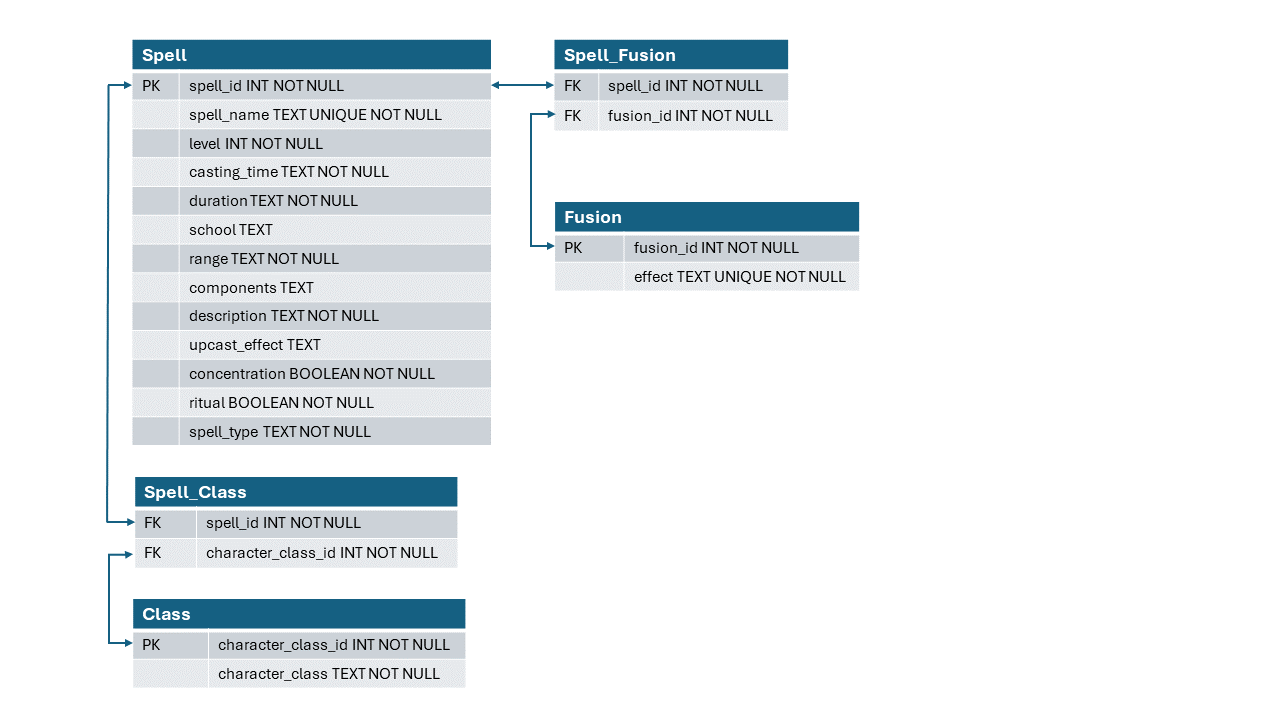
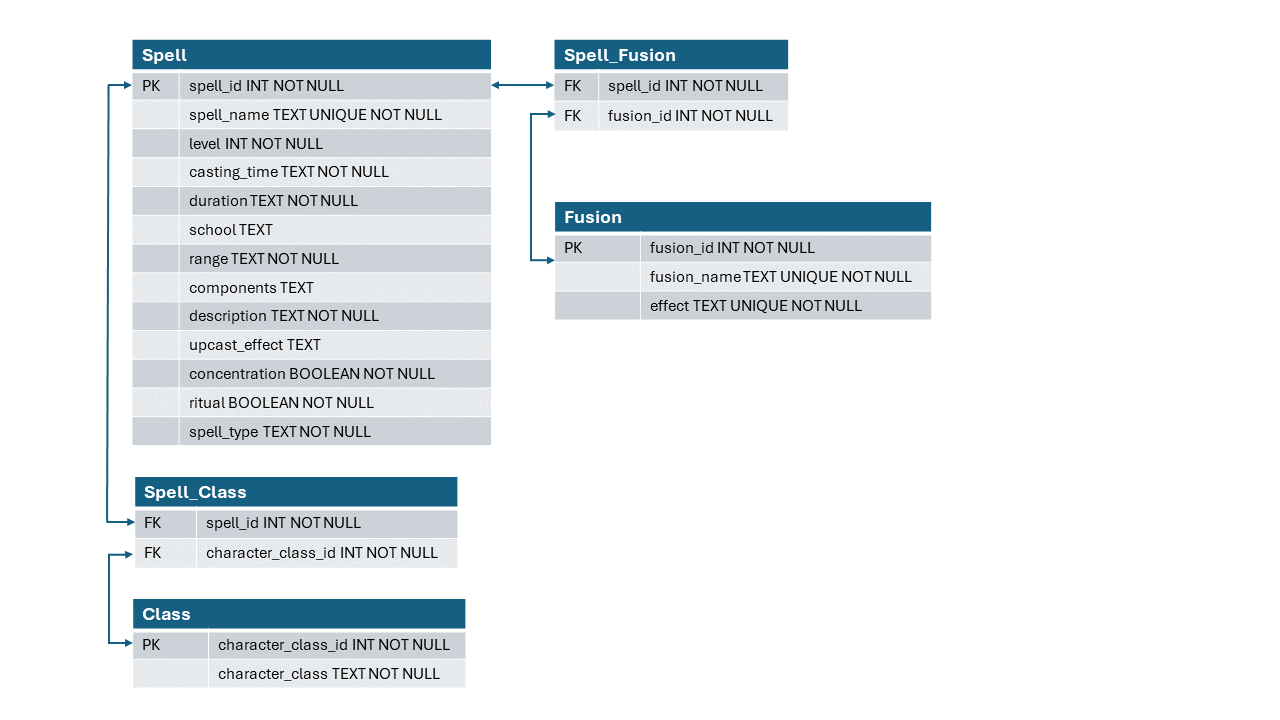
Adjusted diagram and Fusion table to have fusion_name

Changed region(s): [[0.4375, 0.275, 0.75, 0.4583], [0.4062, 0.3361, 0.4375, 0.3667]]

diff --git a/src/Populate_Gestalt.py b/src/Populate_Gestalt.py
@@ -78,6 +78,7 @@ def create_fusion_table(connection):
 		'''
 		CREATE TABLE Fusion(
 			fusion_id INTEGER PRIMARY KEY AUTOINCREMENT NOT NULL,
+			fusion_name TEXT UNIQUE NOT NULL,
 			effect TEXT UNIQUE NOT NULL
 		)
 		'''
